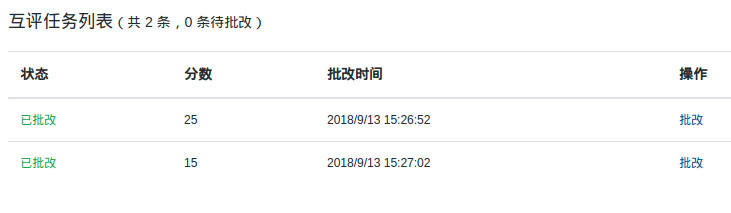
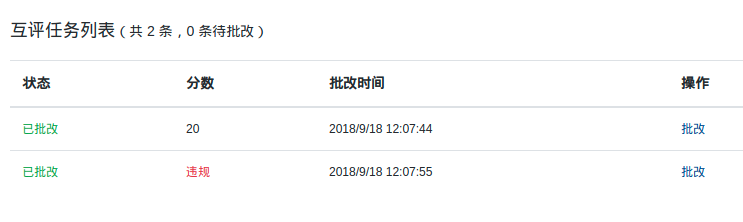
update

diff --git a/source/_posts/peer-review-problem-set.md b/source/_posts/peer-review-problem-set.md
@@ -137,11 +137,76 @@ tags: 产品
 
 ### 学生查看互评结果与申诉
 
+学生能够查看自己的作业互评得分，给别人互评的得分或扣分，以及所有给自己的评价（包括分数及评语）。
+
 {% asset_img example-user-result1.png 学生收到的互评 %}
 
-学生一共收到了两份互评，得分分别为 25 和 20, 分数差
+学生一共收到了两份互评，得分分别为 25 和 20, 分数差为 5 分，不需要仲裁。
 
 
 ### 教师仲裁与调整
 
-互评阶段结束后，教师可以在互评结果页面看到所有学生的互评情况。
+互评阶段结束后，教师可以在互评结果页面看到所有学生的互评情况。其中需要仲裁或未提交的学生会列在最前面，此时没有问题的成绩将会进入提交列表和排名。
+
+{% asset_img example-teacher-result-list.png 教师查看互评结果列表 %}
+
+#### 仲裁违规
+
+点击进入第一位需要仲裁的学生，会列出得分情况以及等待仲裁的原因，教师可以查看作业后进行仲裁。
+
+{% asset_img example-teacher-detail-4.png 教师查看互评详情 %}
+
+这份作业有学生报告违规（违规原因可以在下方查看），并且分数低于仲裁得分下限。
+
+{% asset_img example-teacher-detail-4-1.png 教师查看互评详情 %}
+
+下方的详细列表中会列出这位学生所有给出的互评与收到的互评，包括评语以及汇报违规后的理由，教师可以参考这些信息对作业进行仲裁。
+
+假设教师认为这位学生的确违规，可以仲裁时选中“违规”，并且把分数设置为 0 分，此时学生本次作业就会不得分，并且由于 0 分，另一位进行仲裁的学生会被扣除 ** 15 （学生的给分） - 30 （满分） * 20% （仲裁阈值） / 2 ** 分。即 12 分：
+
+{% asset_img example-teacher-detail-4-2.png 另一位给分学生 %}
+
+可以看到这位学生原本作业得分 27.5, 但由于仲裁导致超阈值扣分 12 分，最终四舍五入得分为 16 分。
+
+此时教师认为对这位学生的互评扣分过多了，只是未发现违规，希望调整他的分数。可以点击右上角的调整按钮，直接调整他的最终得分。
+
+{% asset_img example-teacher-detail-4-3.png 另一位给分学生调整后 %}
+
+此时我们直接调整了他的总分为 22 分，可以看到虽然各部分得分还在，但最终成绩尊重了教师的调整结果。
+
+学生的申诉与反馈功能都比较简单，学生可以直接进行操作，教师会获得申诉的提示，因此再次不演示。
+
+## FAQ
+
+### 仲裁与调整
+
+* 仲裁修改的是学生的**作业得分**（不包括互评相关分数），仲裁后的成绩仍然要减去这位学生的互评扣分，才是最终得分。同时仲裁将会导致其他为这位学生打分的学生重新计算互评罚扣。
+* 调分直接修改学生的**最终得分**，不会影响他收到的互评。
+* 仲裁与调整操作**互相覆盖**，后操作的会覆盖掉之前的操作。
+
+### 评分规则
+
+* 用户组中所有用户参与互评，互评成绩单独计算
+
+  * 未提交作业的学生也可以参与互评（会被系统分发任务）
+  * 题目集满分：作业分数（题目的分数） + 互评满分
+  * 学生互评最多罚扣到互评满分
+
+* 只有提交了作业的人参与互评，惩罚分从作业得分中扣除
+
+  * 未提交作业的学生不可以参与互评（系统不分发任务）
+  * 题目集满分：作业分数
+  * 学生互评不设置最多罚扣分数（互评完成的不好，最多可能将整个题目集扣至 0 分）
+
+### 作业分发范围
+
+如果题目集中被授权了多个用户组，作业只会在当前用户组中分发（也就是说不同用户组不会互相互评作业）
+
+### 分组作业
+
+如果互评作业需要分组完成，老师可以将所有组长单独加到一个用户组中，授予答题权限（提交答案），所有作业都由组长分给同学完成，再由组长提交作业、进行互评。
+
+注：
+1. 互评功能还在早期阶段，由于流程复杂，可能还有 bug。如果遇到成绩计算错误，作业没有分发等问题，请直接在群中联系我们（学生提交的作业都会保留）。
+1. 目前导出功能还未为互评题目集进行优化，后续我们将专门为互评设计导出功能。
+1. 互评题目集在作业分发、计算分数等多个阶段都需要用户组与题目集的授权关系，建议老师轻易不要删除
